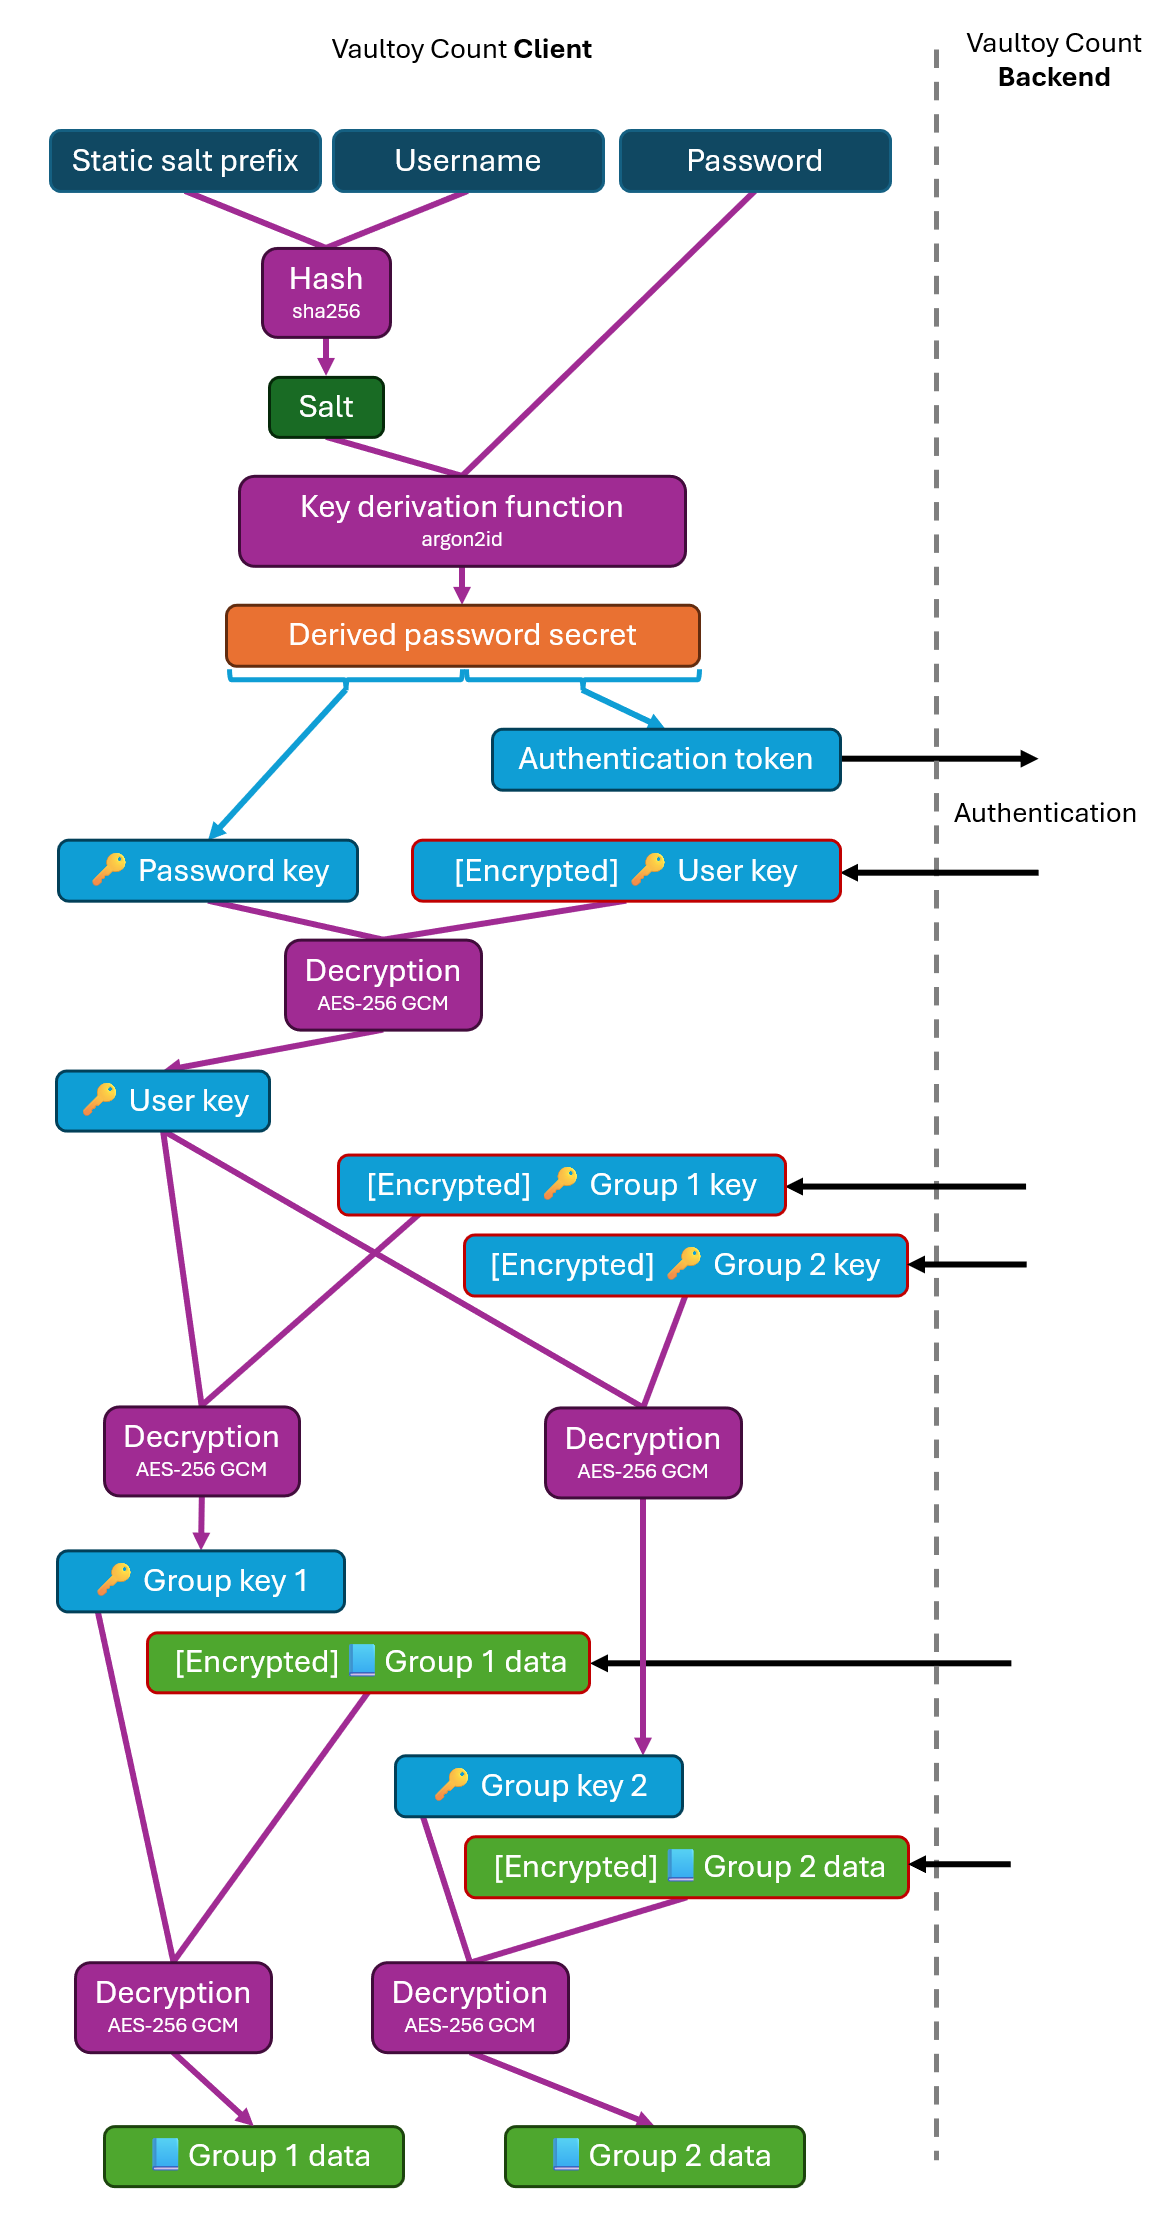
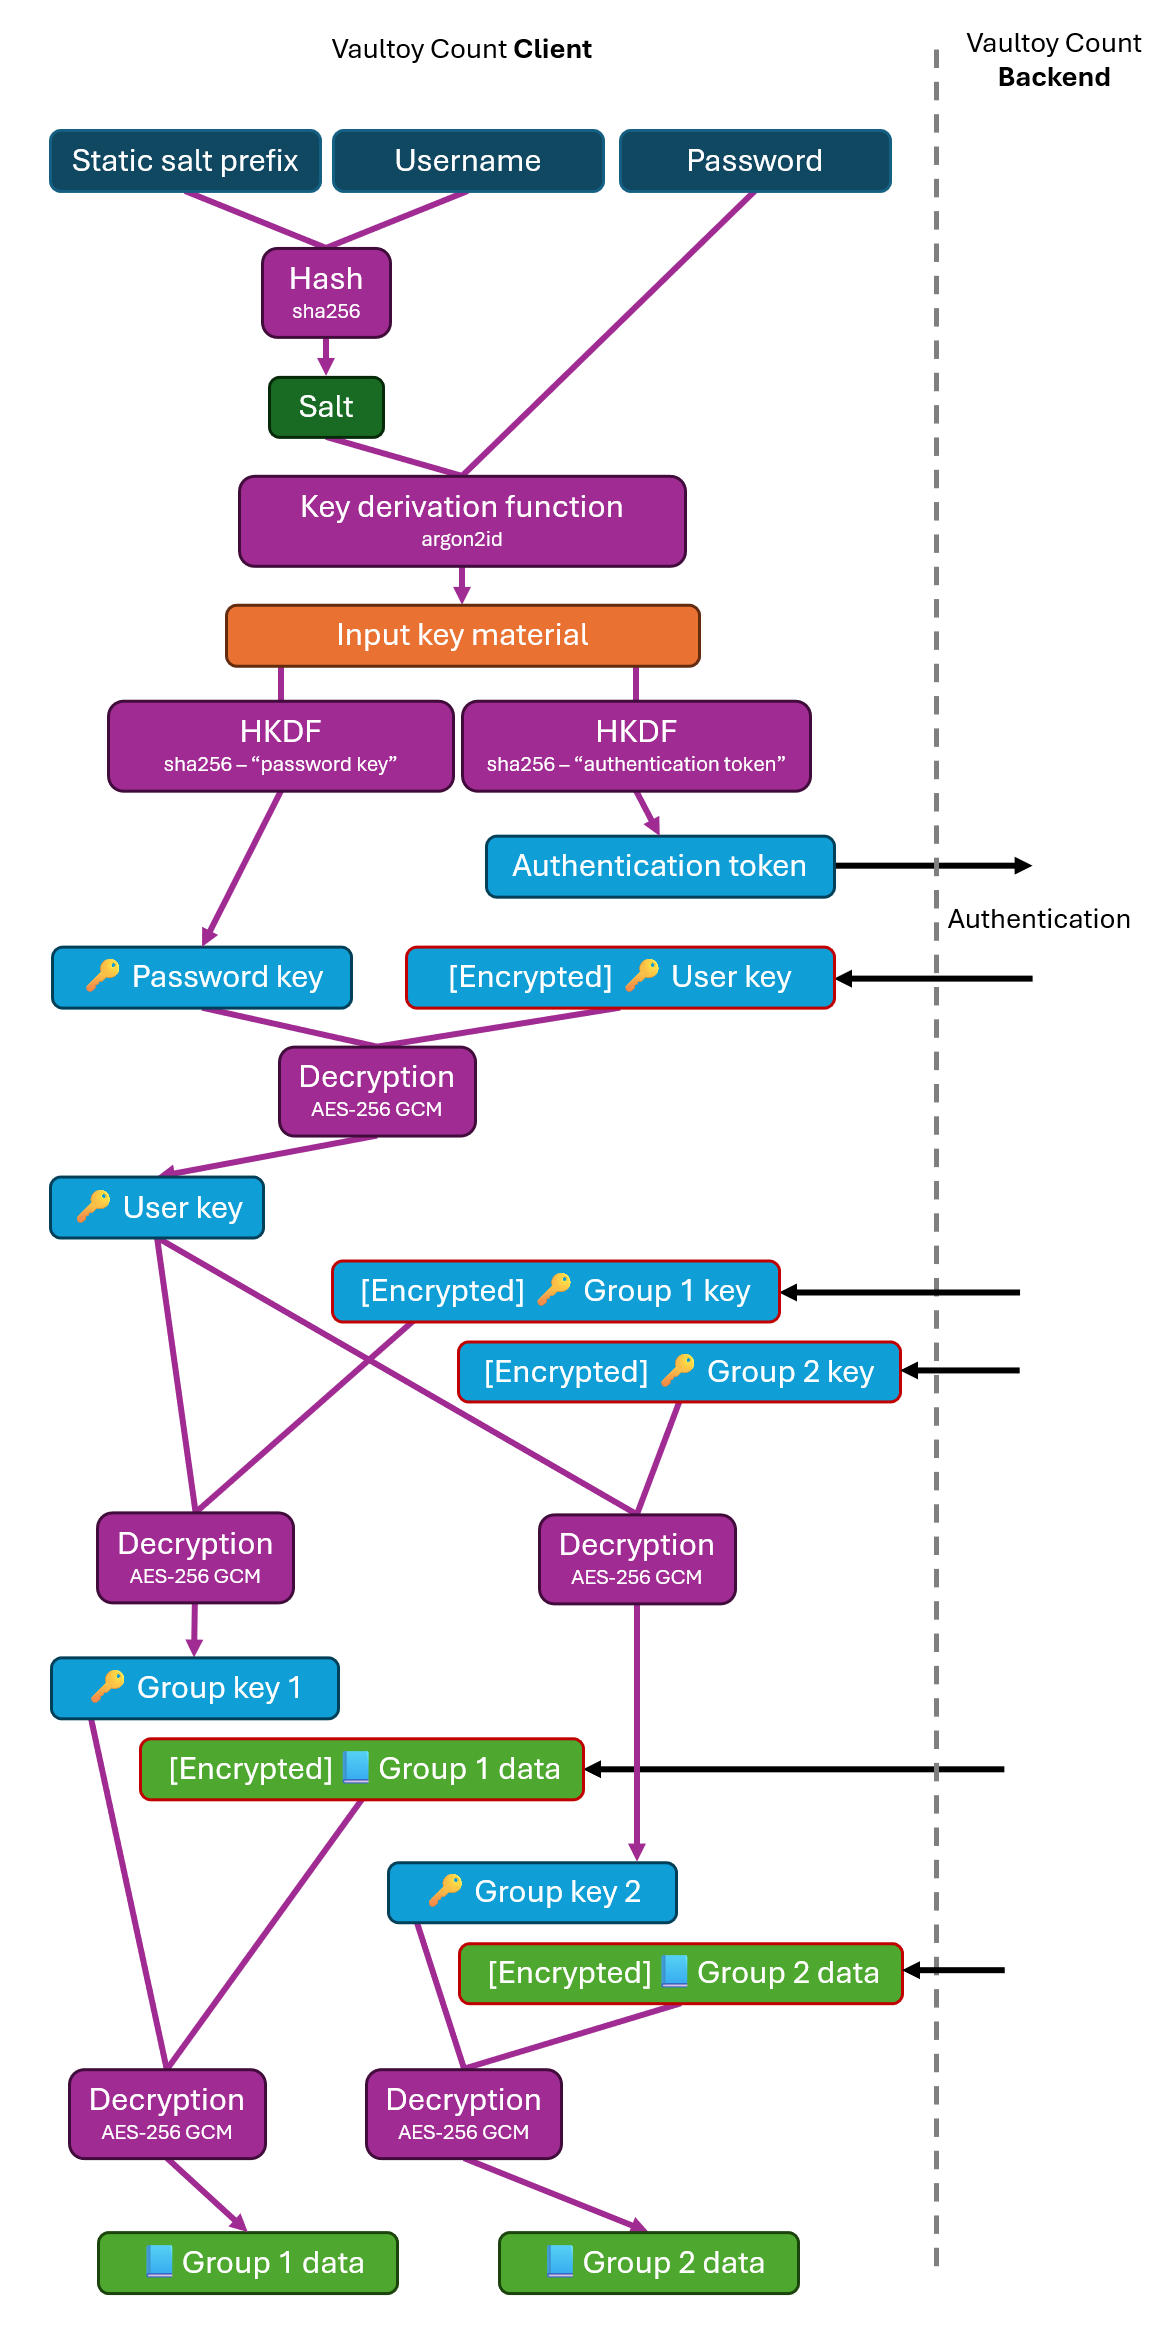
doc: reflecting changes in the whitepaper

Changed region(s): [[0.0311, 0.0, 0.9637, 0.9959], [0.8394, 0.0, 0.9948, 0.0622], [0.4974, 0.1245, 0.5596, 0.1556]]

diff --git a/src/pages/Whitepaper.tsx b/src/pages/Whitepaper.tsx
@@ -102,8 +102,8 @@ export const WhitepaperPage = () => (
             Next, the <strong>argon2id</strong> key derivation function is
             applied to the user's password, using the aforementioned salt to
             obtain the{" "}
-            <span style={{ fontStyle: "italic" }}>derived password secret</span>
-            . This process is computationally expensive on purpose to make
+            <span style={{ fontStyle: "italic" }}>input key material</span>.
+            This process is computationally expensive on purpose to make
             brute-force attacks more difficult. The parameters used for argon2id
             are as follows:
           </Text>
@@ -137,16 +137,18 @@ export const WhitepaperPage = () => (
             <br />
             <br />
             The resulting{" "}
-            <span style={{ fontStyle: "italic" }}>
-              derived password secret
-            </span>{" "}
-            is of 64 bytes length. The first 32 bytes are used to create the{" "}
-            <span style={{ fontStyle: "italic" }}>password key</span>, which is
-            used for encryption and decryption of sensitive data. The remaining
-            32 bytes are used to create the
-            <span style={{ fontStyle: "italic" }}>authentication token</span>,
-            which is sent to the server to authenticate the user. This way, the
-            server can{" "}
+            <span style={{ fontStyle: "italic" }}>input key material</span> is
+            used to derive two secrets: the{" "}
+            <span style={{ fontStyle: "italic" }}>password key</span> and the{" "}
+            <span style={{ fontStyle: "italic" }}>authentication token</span>.
+            This is done using a HKDF key derivation function based on{" "}
+            <span style={{ fontStyle: "italic" }}>sha256</span>. The two HKDF
+            operations use a different{" "}
+            <span style={{ fontStyle: "italic" }}>information</span> parameter.
+            This ensures that the knownledge of the authentication token does
+            not allow an attacker to derive the{" "}
+            <span style={{ fontStyle: "italic" }}>password key</span>. This way,
+            the server can{" "}
             <strong>
               authenticate the user without ever having access to the{" "}
               <span style={{ fontStyle: "italic" }}>password key</span> or the
@@ -155,13 +157,14 @@ export const WhitepaperPage = () => (
             .
             <br />
             <br />
-            The authentication token is sent to the server in the login request.
-            It is hashed once again on the server side using argon2id with a
-            random salt and the same parameters as above. While the
-            confidentiality of the user's data does not rely on the protection
-            of the authentication token, hashing it one more time on the server
-            side adds an additional layer of security on the protection of the
-            user's account and password.
+            The{" "}
+            <span style={{ fontStyle: "italic" }}>authentication token</span> is
+            sent to the server in the login request. It is hashed once again on
+            the server side using argon2id with a random salt and the same
+            parameters as above. While the confidentiality of the user's data
+            does not rely on the protection of the authentication token, hashing
+            it one more time on the server side adds an additional layer of
+            security to protect the user's account and password.
           </Text>
         </VStack>
       </Card.Body>
